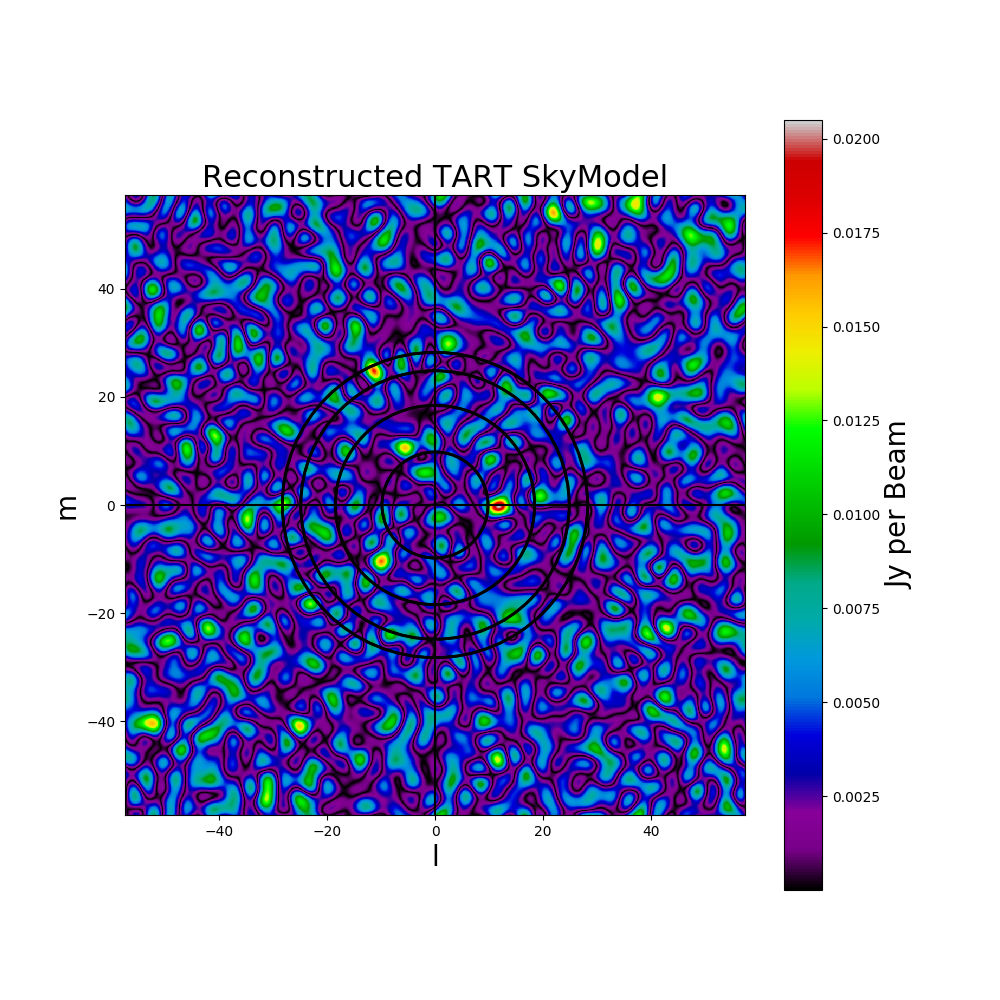
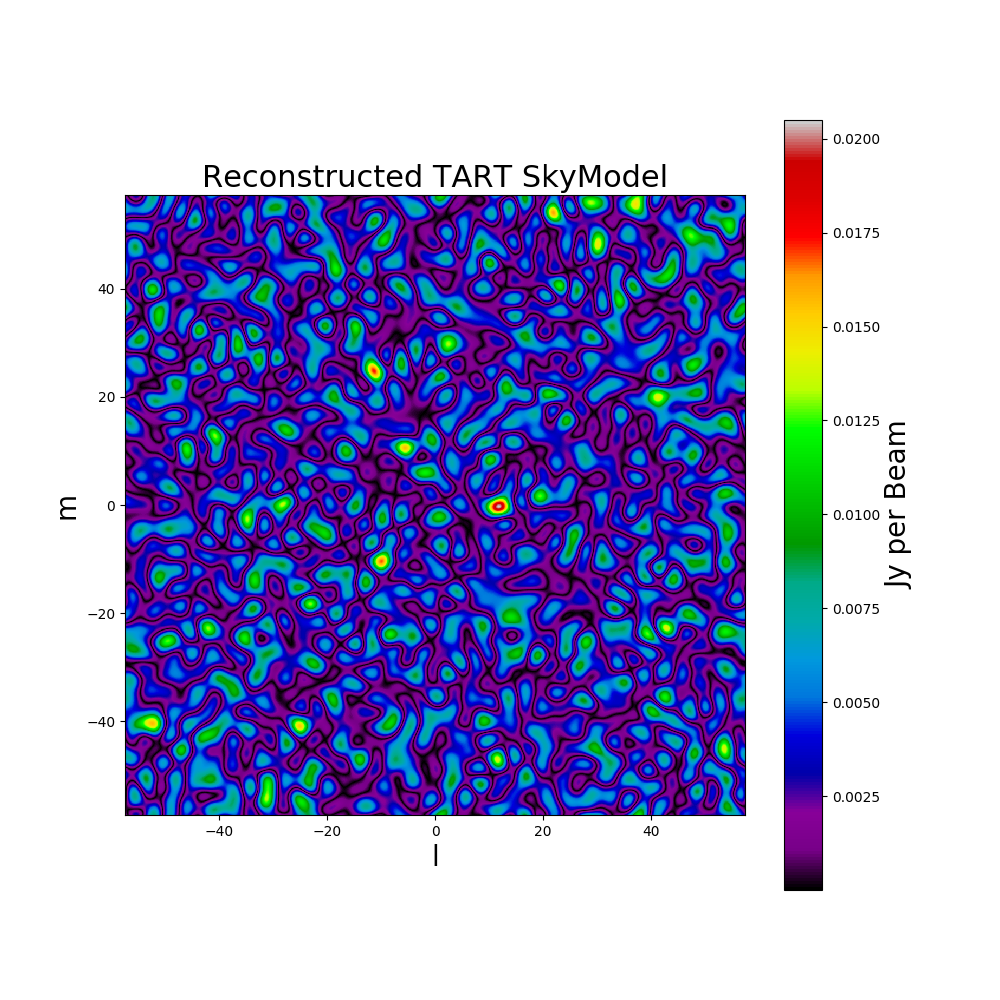
added declination circels

diff --git a/html/index.html b/html/index.html
@@ -20,10 +20,11 @@
           cell_size = $("#cell_size").val()
           resolusion = $("#resolusion").val()
           loc = $("#loc").val()
+          grid = $("#grid").is(':checked');
           cont = cell_size != "" && co != "" && loc != ""
 
           if (cont) {
-            $.post("/generate_graphs",{cell_size:cell_size, loc:loc})
+            $.post("/generate_graphs",{cell_size:cell_size, loc:loc, showGrid: grid})
              .done(function(string) {
 
                var unique = $.now();
@@ -57,11 +58,14 @@
           base = $("#baseline").val()
           cell_size = $("#cell_size").val()
           resolusion = $("#resolusion").val()
+          grid = $("#grid").is(':checked');
           cont = resolusion != "" && $("#input_file").val() != "" && $("#lsm_file").val()
                   != "" && base != "" && cell_size != ""
 
           if (cont) {
-            $.post("/generate_custom_graphs",{input_file:$("#input_file").val(), lsm_file:$("#lsm_file").val(), baseline:base, cell_size:cell_size, res: resolusion})
+            $.post("/generate_custom_graphs",{input_file:$("#input_file").val(),
+                  lsm_file:$("#lsm_file").val(), baseline:base,
+                  cell_size:cell_size, res: resolusion, showGrid: grid})
              .done(function(string) {
 
                var unique = $.now();
@@ -164,9 +168,8 @@
 
     <d class="col-sm-10">
       <h1>{{ target }}</h1>
-      Baseline: <input type="text" name="baseline" id="baseline">
       Image Cell Size: <input type="text" name="cell_size" id="cell_size">
-      Image Resolusion: <input type="text" name="resolusion" id="resolusion">
+      Show Grid: <input type="checkbox" name="grid" value="1" id="grid">
     <br>
 
     <div class="panel-group" id="accordion">
@@ -229,6 +232,9 @@
            LSM File <input type="file" name="lsm_file" id="lsm_file" class="but">
          </label>
 
+         Baseline: <input type="text" name="baseline" id="baseline">
+         Image Resolution: <input type="text" name="resolusion" id="resolusion">
+
          <br>
 
          <button type="submit" id="generate_custom_graphs" class="btn btn-default btn-primary">Generate custom layout graphs</button><br>
@@ -273,7 +279,7 @@
      </div>
     </div>
     </d>
-    
+
     <div class="col-sm-1">
     </div>
 

diff --git a/Utilities.py b/Utilities.py
@@ -237,10 +237,11 @@ def get_visibilities(b_ENU, L, f, h0, h1, model_name, layout):
     :param layout: The antenna layout
     :type layout: numpy float array
 
-    :returns: The visibilities, the UV tracks, and the center declination
+    :returns: The visibilities, the UV tracks, and the center declination as well
+              as the center right ascention.
     """
     h = np.linspace(h0,h1,num=600)*np.pi/12
-    point_sources, l, m, dec, flux_sources = load_sky_model(model_name)
+    point_sources, l, m, dec, flux_sources, ra_0 = load_sky_model(model_name)
 
     plot_sky_model(l*(180/np.pi), m*(180/np.pi), flux_sources, "l [degrees]", "m [degrees]")
 
@@ -250,7 +251,7 @@ def get_visibilities(b_ENU, L, f, h0, h1, model_name, layout):
     plot_visibilities(u_d, v_d, uu, vv, point_sources)
     all_uv_tracks, all_uv = get_all_uv_and_uv_tracks(L, f, h, dec, point_sources, layout)
 
-    return all_uv, all_uv_tracks, dec
+    return all_uv, all_uv_tracks, dec, ra_0
 
 def load_sky_model(model_name):
     """
@@ -261,7 +262,7 @@ def load_sky_model(model_name):
 
     :returns: The point sources from the loaded sky model, the l coordinates of
               the points, the m coordinates of the points, the center declination,
-              the flux sources
+              the flux sources, and the center right ascention
     """
     model = Tigger.load(model_name)
     RA_sources = []
@@ -295,7 +296,7 @@ def load_sky_model(model_name):
     point_sources[:,2] = m[0:]
     dec = dec_0
 
-    return point_sources, l, m, dec_0, Flux_sources
+    return point_sources, l, m, dec_0, Flux_sources, ra_0_rad
 
 def plot_sky_model(l, m, Flux_sources, x, y):
     """
@@ -552,7 +553,7 @@ def get_all_uv_and_uv_tracks(L, f, h, dec, point_sources, layout):
 
     return all_uv_tracks, all_uv
 
-def image(uv, uv_tracks, cell_size, dec_0, res, name):
+def image(uv, uv_tracks, cell_size, dec_0, res, name, showGrid, ra_0=0):
     """
     Calculates the Resolusion from the cell size and the provided resolution,
     it then plots the baseline grid and applies the visibilities to a grid.
@@ -576,6 +577,12 @@ def image(uv, uv_tracks, cell_size, dec_0, res, name):
 
     :param name: The name for the output image
     :type name: str
+
+    :param ra_0: The center right ascention
+    :type ra_0: float
+
+    :param showGrid: Whether or not to show the grid on the image
+    :type showGrid: boolean
 
     :returns: Nothing
     """
@@ -619,8 +626,8 @@ def image(uv, uv_tracks, cell_size, dec_0, res, name):
     image /= scale_factor
     psf_image /= scale_factor
 
-    draw_image(image, Nl, Nm, cell_size_l, cell_size_m, L, M, name + " SkyModel", "l", "m", cell_size_error)
-    draw_image(psf_image, Nl, Nm, cell_size_l, cell_size_m, L, M, name + " PSF", "l", "m", cell_size_error)
+    draw_image(image, Nl, Nm, cell_size_l, cell_size_m, L, M, name + " SkyModel", "l", "m", cell_size_error, dec_0, ra_0, showGrid)
+    draw_image(psf_image, Nl, Nm, cell_size_l, cell_size_m, L, M, name + " PSF", "l", "m", cell_size_error, dec_0, ra_0, False)
 
 def grid(Nl, Nm, uv_tracks, uv, cell_size_l, cell_size_m):
     """
@@ -690,7 +697,7 @@ def fourier_transform_grid(grid):
     return np.real(image)
 
 def draw_image(image, Nl, Nm, cell_size_l, cell_size_m, L, M, name,
-x_title, y_title, cell_size_error):
+                x_title, y_title, cell_size_error, dec_0, ra_0, showGrid):
     """
     Draws the image onto a figure, adds a color map to the side and draws circles
     for the declination.
@@ -728,6 +735,15 @@ x_title, y_title, cell_size_error):
     :param cell_size_error: whether or not the cell size produced an error boolean
     :type cell_size_error: boolean
 
+    :param dec_0: The center declination
+    :type dec_0: float
+
+    :param ra_0: The center right ascention
+    :type ra_0: float
+
+    :param showGrid: Whether or not to show the grid on the image
+    :type showGrid: boolean
+
     :returns: Nothing
     """
     img = plt.figure(figsize=(10,10))
@@ -740,19 +756,25 @@ x_title, y_title, cell_size_error):
     im_vis = axc.imshow(image, origin='lower', extent=[L - Nl / 2 * cell_size_l, L + Nl / 2 * cell_size_l,
                                                         M - Nm / 2 * cell_size_m, M + Nm / 2 * cell_size_m])
 
-    for i in range(10,91,10):
-        d_ra = i-0
-        # increments of 10
-        radius = math.cos(i * np.pi/180) * math.sin(d_ra * np.pi/180) * 180/np.pi
-        circ = Circle((0, 0), radius, fill=False, alpha=1,color='k', lw=2)
-        axc.add_patch(circ)
+
+    if showGrid:
+        plt.axvline(x=0,color='k')
+        plt.axhline(y=0,color='k')
+        for i in range(10,91,10):
+            dec = i * np.pi/180
+            d_ra = 0
+
+            l = math.cos(dec) * math.sin(d_ra) * 180/np.pi
+            m = (math.sin(dec) * math.cos(dec_0) - math.cos(dec) * math.sin(dec_0) * math.cos(d_ra)) * 180/np.pi
+            radius = np.sqrt(l**2 + m**2)
+            circ = Circle((0, 0), radius, fill=False, alpha=1,color='k', lw=2)
+            axc.add_patch(circ)
 
     cbr = img.colorbar(im_vis)
     cbr.set_label('Jy per Beam',size=20)
     plt.xlabel(x_title,size=20)
     plt.ylabel(y_title,size=20)
-    plt.axvline(x=0,color='k')
-    plt.axhline(y=0,color='k')
+
 
     if cell_size_error:
         txt = "INVALID CELL SIZE"

diff --git a/Pipeline.py b/Pipeline.py
@@ -69,7 +69,9 @@ class pipeline(object):
         return np.array(layoutJSON)
 
     @cherrypy.expose
-    def generate_custom_graphs(self, input_file=None, lsm_file=None, baseline=None, cell_size=None, res=None):
+    def generate_custom_graphs(self, input_file=None, lsm_file=None,
+                                baseline=None, cell_size=None, res=None,
+                                showGrid=False):
         """
         Called by the HTML page when the generate Custom graphs button is pressed.
         The HTML page sends the information entered in the fields to the function and it is
@@ -89,6 +91,9 @@ class pipeline(object):
         :type cell_size: str
 
         :param res: The resolution for the imaging process
+        :type: str
+
+        :param showGrid: Whether or not to show the grid on the image.
         :type: str
 
         :returns: nothing
@@ -121,11 +126,15 @@ class pipeline(object):
             dec = dec[0] + dec[1]/60. + dec[2]/3600.
 
             ut.plot_baseline(b, custom_L, custom_f, sha, eha, dec, "CUSTOM")
-            uv, uv_tracks, dec_0 = ut.get_visibilities(b, custom_L, custom_f, sha, eha, "Sky_Models/" + lsm_file, custom_layout)
-            ut.image(uv, uv_tracks, cell_size, dec_0, res, "CUSTOM")
+            uv, uv_tracks, dec_0, ra_0 = ut.get_visibilities(b, custom_L, custom_f, sha, eha, "Sky_Models/" + lsm_file, custom_layout)
+            if showGrid == "true":
+                showGrid = True
+            else:
+                showGrid = False
+            ut.image(uv, uv_tracks, cell_size, dec_0, res, "CUSTOM", showGrid, ra_0)
 
     @cherrypy.expose
-    def generate_graphs(self, cell_size=None, loc=None):
+    def generate_graphs(self, cell_size=None, loc=None, showGrid=False):
         """
         Called by the HTML page when the generate Tart graphs button is pressed.
         The HTML page sends the information entered in the fields to the function and it is
@@ -135,6 +144,9 @@ class pipeline(object):
         :type cell_size: str
 
         :param loc: location, which telescope to use, New Zealand or South Africa
+        :type: str
+
+        :param showGrid: Whether or not to show the grid on the image.
         :type: str
 
         :returns: nothing
@@ -170,7 +182,11 @@ class pipeline(object):
                     all_uv_tracks.append(uv_tracks)
 
             res = 2 * 180/np.pi
-            ut.image(all_uv, all_uv_tracks, cell_size, 0, res, "TART")
+            if showGrid == "true":
+                showGrid = True
+            else:
+                showGrid = False
+            ut.image(all_uv, all_uv_tracks, cell_size, 0, res, "TART", showGrid)
 
 
     @cherrypy.expose
